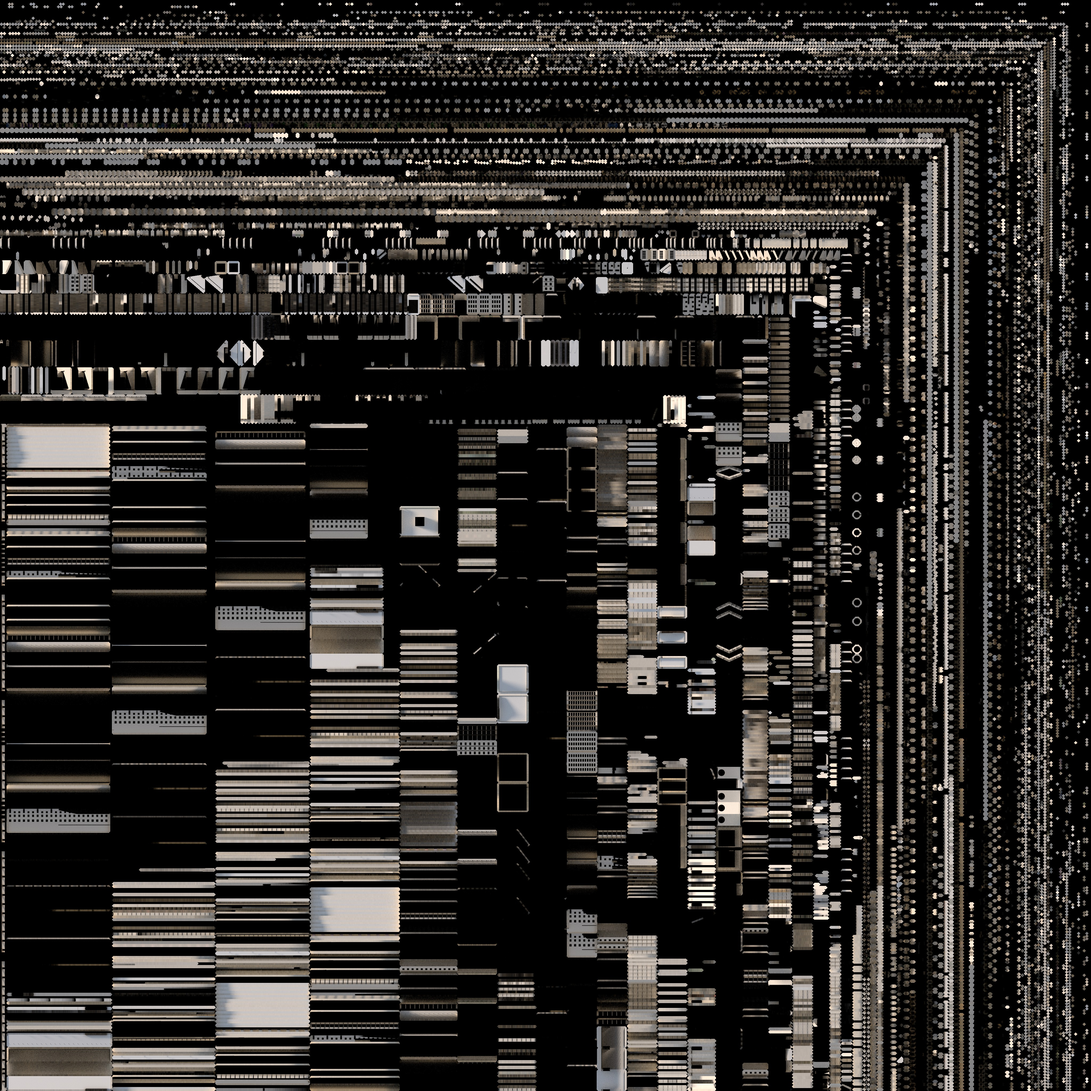
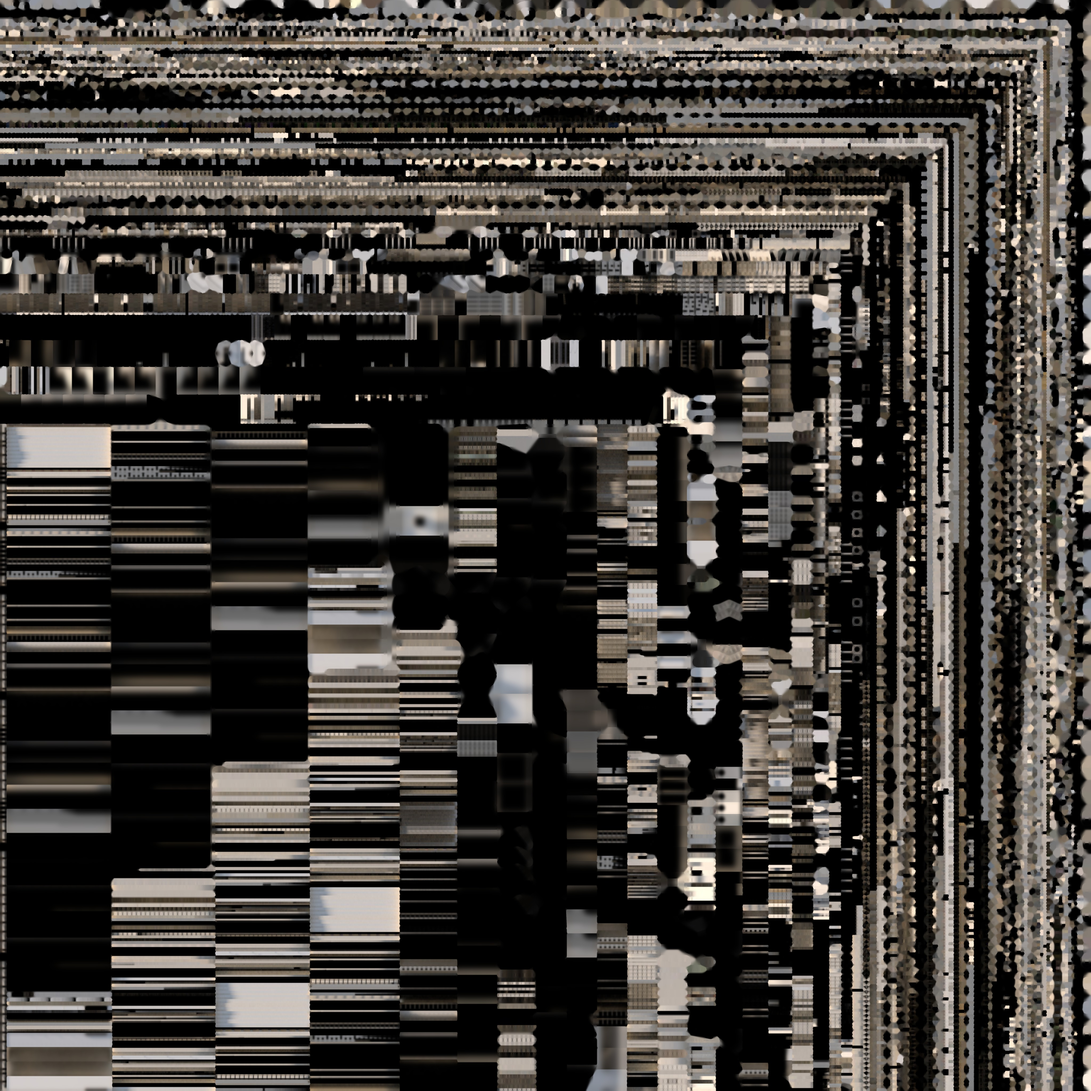
Smooth clay stand (owner, 7 Nov): the baked light maps smoothed island by island, gutters filled
tools/course/smooth_lightmaps.py: the Cycles bake's grain, blotches and stepped bands go; broad shading stays. The
islands come from raw/*_mask.png (rendered from the view's own geometry); the untouched bakes are kept in raw/.
Finish camera: zoom ranges open up on narrow screens (rangeFor), so a phone held upright keeps the winner in shot.

Claude-Session: https://claude.ai/code/session_019m8Mz8Qb2kHq7CmEbsd6AW

diff --git a/race-view/final-furlong.html b/race-view/final-furlong.html
@@ -1661,6 +1661,15 @@ const lerp3 = (a, b, k) => new THREE.Vector3(...a).lerp(new THREE.Vector3(...b),
 // Returns { eye, look, fov, id, anchor, guard }. During the race the frame loop keeps the look point tied to
 // the leader (anchor) and smooths only the offset from it, so a moving field never drags behind the camera
 // (that lag was what cropped the leading horse); 'guard' are horses that must never leave the shot.
+// Zoom ranges in the camera plan are set for a landscape screen. On a narrower one (a phone held upright) the widest
+// zoom opens up so the same width of course still fits across the screen (owner, 7 Nov: on a phone the finish camera
+// couldn't widen enough to keep the winner in shot as they crossed the line).
+const REF_ASPECT = 1.6;
+function rangeFor(r) {
+  if (camera.aspect >= REF_ASPECT) return r;
+  const k = REF_ASPECT / camera.aspect, wide = 2 * THREE.MathUtils.radToDeg(Math.atan(Math.tan(THREE.MathUtils.degToRad(r[1]) / 2) * k));
+  return [r[0], Math.min(78, wide)];
+}
 function cameraTarget(now) {
   const still = (eye, look, fov, id) => ({ eye, look, fov, id });
   if (EYE && AT) return still(new THREE.Vector3(...EYE.split(",").map(Number)), new THREE.Vector3(...AT.split(",").map(Number)), Number(params.get("fov") || 40), "free");
@@ -1678,12 +1687,12 @@ function cameraTarget(now) {
     const c = RCAMS.sideon, look = new THREE.Vector3(...c.look);
     const [lx] = toWorld(leaderAt(now), 0);
     look.x += THREE.MathUtils.clamp(lx - look.x, -12, 18) * 0.8;          // pans a little with the leader
-    return still(new THREE.Vector3(...c.at), look, c.fov[0], "sideon");
+    return still(new THREE.Vector3(...c.at), look, R[0], "sideon");
   }
   const field = fieldInShot(now);
   const leadU = leaderAt(now);
   const id = directorShot(DIST - leadU, leadU);
-  const c = RCAMS[id];
+  const c = RCAMS[id], R = rangeFor(c.fov);
   // The finish (owner, 7 Nov): once the winner is past the post the grandstand camera stops following it and holds on
   // the winning line, so the placings are seen crossing it. It pans across to the line (the look point eases over, no
   // cut) and frames the line and every runner still to finish within 30 m of it, plus any just over it.
@@ -1692,7 +1701,7 @@ function cameraTarget(now) {
     const near = [];
     for (const h of now) if (h[0] > DIST - 30 && h[0] < DIST + 4) { const [x, z] = toWorld(h[0], h[1]); near.push(new THREE.Vector3(x, 1.3, z)); }
     const eye = new THREE.Vector3(...c.at), pts = near.length ? near.concat([line]) : [line];
-    return { eye, look: line, fov: near.length ? fitFov(eye, line, pts, c.fov) : camera.fov, id, anchor: line, guard: pts, range: c.fov };
+    return { eye, look: line, fov: near.length ? fitFov(eye, line, pts, R) : camera.fov, id, anchor: line, guard: pts, range: R };
   }
   // who is framed: the whole field (all but one or two tailed off), or just the leading group. The tracking cameras
   // (track, drone) keep the horses within a stretch of the leader that suits the screen's shape, and always the first
@@ -1733,12 +1742,12 @@ function cameraTarget(now) {
   let eye;
   if (c.ahead) {
     let want = c.ahead[c.ahead.length - 1];
-    for (const a of c.ahead) if (fitFov(eyeAt(a), centre, pts, c.fov) < c.fov[1] * 0.8) { want = a; break; }
+    for (const a of c.ahead) if (fitFov(eyeAt(a), centre, pts, R) < R[1] * 0.8) { want = a; break; }
     if (state.aheadFor !== id || snap) { state.aheadFor = id; state.ahead = want; }
     state.ahead += (want - state.ahead) * (1 - Math.exp(-(state.dt || 0.016) * 0.7));   // ease, never jump
     eye = eyeAt(state.ahead);
   } else eye = eyeAt(0);
-  let look = centre, fov = fitFov(eye, centre, pts, c.fov);
+  let look = centre, fov = fitFov(eye, centre, pts, R);
   // closing in: over the last stretch the camera eases from the whole field to the leading group, so
   // the finish is as tight as possible, with no cut ([start, end] metres out, and the group's window)
   if (c.closeIn) {
@@ -1747,17 +1756,17 @@ function cameraTarget(now) {
       const grp = field.filter((p, i) => i < 2 || leadU - p.u <= win);
       const gc = new THREE.Box3().setFromPoints(grp).getCenter(new THREE.Vector3()).addScaledVector(run, c.leadRoom || 0);
       look = centre.clone().lerp(gc, k);
-      fov = THREE.MathUtils.lerp(fitFov(eye, look, pts, c.fov), fitFov(eye, look, grp, c.fov), k);
+      fov = THREE.MathUtils.lerp(fitFov(eye, look, pts, R), fitFov(eye, look, grp, R), k);
     }
   }
   // widening (owner, 7 Nov): over the last stretch the zoom eases steadily out a little, so a bit more is seen as
   // they come to the line ([from, to, factor] metres out)
   if (c.widen) {
     const [from, to, f] = c.widen, k = 1 - THREE.MathUtils.smoothstep(DIST - leadU, to, from);
-    fov = Math.min(fov * (1 + (f - 1) * k), c.fov[1]);
+    fov = Math.min(fov * (1 + (f - 1) * k), R[1]);
   }
   const [ax, az] = toWorld(leadU, 0);
-  return { eye, look, fov, id, anchor: new THREE.Vector3(ax, 1.3, az), guard: field.slice(0, 2), range: c.fov };
+  return { eye, look, fov, id, anchor: new THREE.Vector3(ax, 1.3, az), guard: field.slice(0, 2), range: R };
 }
 
 // ---------- Controls ----------

diff --git a/tools/course/smooth_lightmaps.py b/tools/course/smooth_lightmaps.py
@@ -1,0 +1,66 @@
+"""Smooth the baked light maps of the stand, the site pieces and the finish line into an even clay finish.
+
+    python3 tools/course/smooth_lightmaps.py
+
+Owner, 7 Nov: "the grandstand appears to have some funny texture... some reflection... some flashing bits. It should just
+be smooth clay texture, no brick patterns." The Cycles bake (tools/blender/bake_static_world.py) leaves sampling noise in
+the light maps: blotches across the walls, stepped bands on the small faces that read as brickwork, and specks that
+shimmer as the camera moves.
+
+Each map is a sheet of thousands of islands (one per face or group of faces) with gutters between them. Where the
+islands are comes from raw/<name>_mask.png (white = island), rendered from the race view's own geometry by the rig's
+uvmask script (each mesh drawn at its texture coordinates). Each island is blurred only with itself: a blur of the
+light weighted by the island, divided by the blur of the weights, with the blur's size set by the island's size (a
+broad wall gets a broad blur, a thin rail a small one). That keeps its broad shading (darker under a canopy, the sunlit
+front) and drops the grain. Islands are done in four interleaved sets so neighbours don't bleed into each other. Then
+the gutters are filled outwards from the islands' edges, so a far-off copy of the map (the graphics chip's mipmaps)
+doesn't darken the edges.
+
+Reads the untouched bakes from race-view/assets/baked/raw/ (copied there the first time), writes race-view/assets/baked/.
+"""
+import os, shutil
+import numpy as np
+from PIL import Image
+from scipy.ndimage import gaussian_filter, label, find_objects, binary_dilation
+
+REPO = os.path.abspath(os.path.join(os.path.dirname(__file__), "..", ".."))
+D = os.path.join(REPO, "race-view", "assets", "baked")
+RAW = os.path.join(D, "raw")
+BUCKETS = (1.2, 2.5, 5.0, 10.0)            # blur sizes (pixels); each island takes the one that suits its size
+
+def nconv(a, w, s):
+    ww = gaussian_filter(w, s)
+    return np.stack([gaussian_filter(a[..., c] * w, s) for c in range(3)], -1) / np.maximum(ww, 1e-6)[..., None]
+
+def smooth(name, k):
+    raw = os.path.join(RAW, name)
+    if not os.path.exists(raw): shutil.copy2(os.path.join(D, name), raw)
+    a = np.asarray(Image.open(raw).convert("RGB"), dtype=np.float32) / 255.0
+    m = np.asarray(Image.open(os.path.join(RAW, name.replace("_light.jpg", "_mask.png"))).convert("L").resize(a.shape[1::-1], Image.NEAREST)) > 127
+    m = binary_dilation(m, iterations=1)                  # the rasterised islands can miss a pixel at their edges
+    lab, n = label(m)
+    size = np.zeros(n + 1, np.float32)
+    for i, sl in enumerate(find_objects(lab), 1):
+        size[i] = min(sl[0].stop - sl[0].start, sl[1].stop - sl[1].start)   # the island's smaller side, in pixels
+    want = size * k                                       # blur about a fraction of the island's size
+    pick = np.digitize(want, [(BUCKETS[j] + BUCKETS[j + 1]) / 2 for j in range(len(BUCKETS) - 1)])
+    pick[0] = -1
+    out = a.copy()
+    for b, s in enumerate(BUCKETS):
+        for c in range(4):                                # four interleaved sets of islands
+            ids = np.where((pick == b) & (np.arange(n + 1) % 4 == c))[0]
+            if not len(ids): continue
+            w = np.isin(lab, ids)
+            sm = nconv(a, w.astype(np.float32), s)
+            out[w] = sm[w]
+    # fill the gutters outwards from the islands
+    have = m.astype(np.float32)
+    for s in (2, 4, 8, 16, 32):
+        fill = nconv(out, have, s); ww = gaussian_filter(have, s)
+        new = (have < 0.5) & (ww > 1e-3)
+        out[new] = fill[new]; have[new] = 1.0
+    Image.fromarray((np.clip(out, 0, 1) * 255 + 0.5).astype(np.uint8)).save(os.path.join(D, name), quality=92)
+    print("smoothed", name, n, "islands")
+
+for name in ("stand_light.jpg", "site_light.jpg", "finish_light.jpg"):
+    smooth(name, 0.12)
